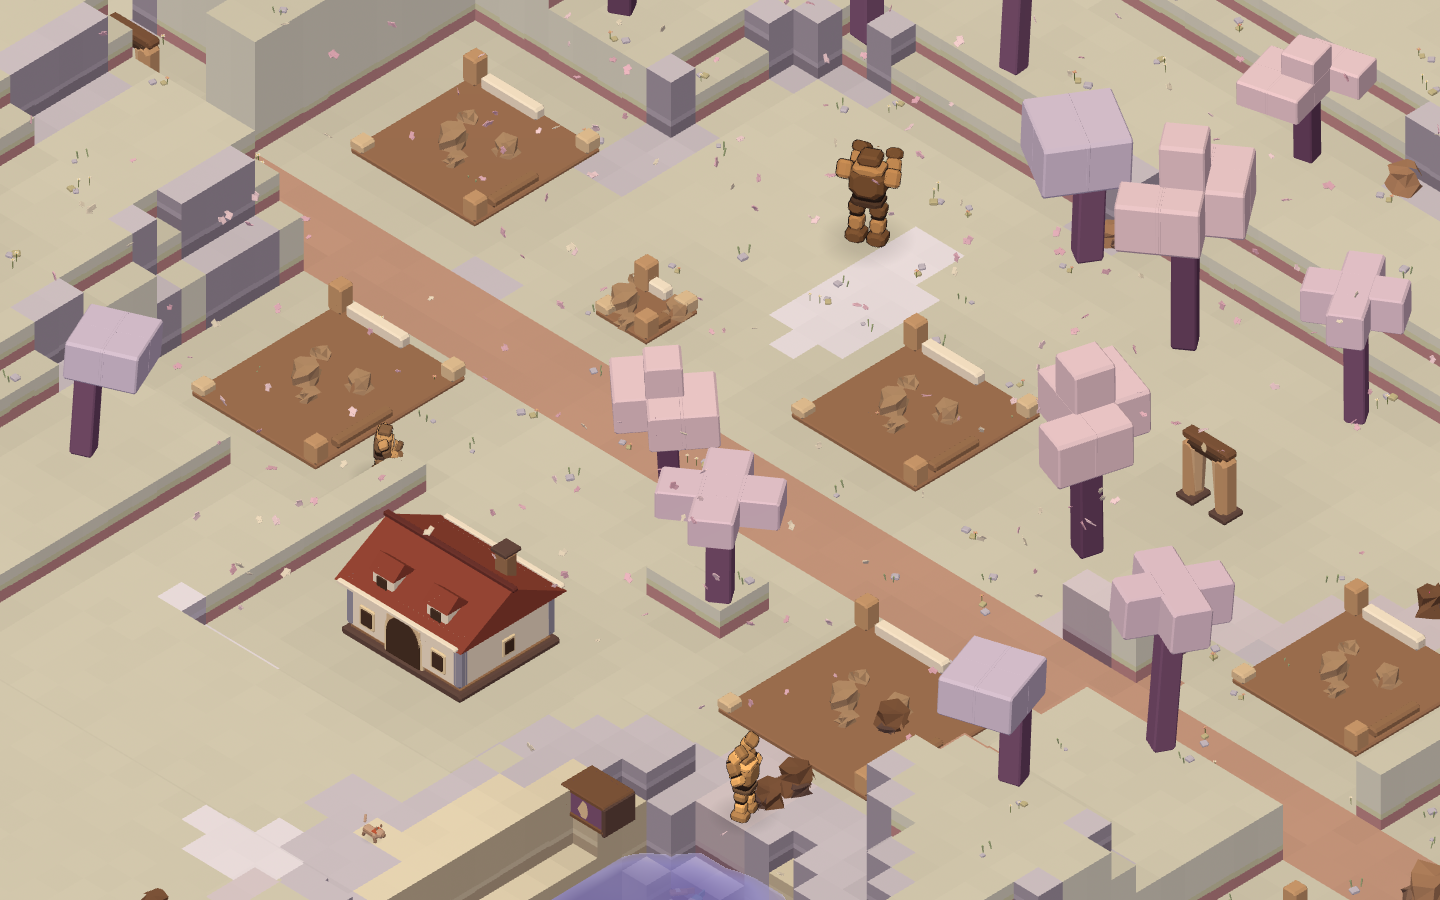
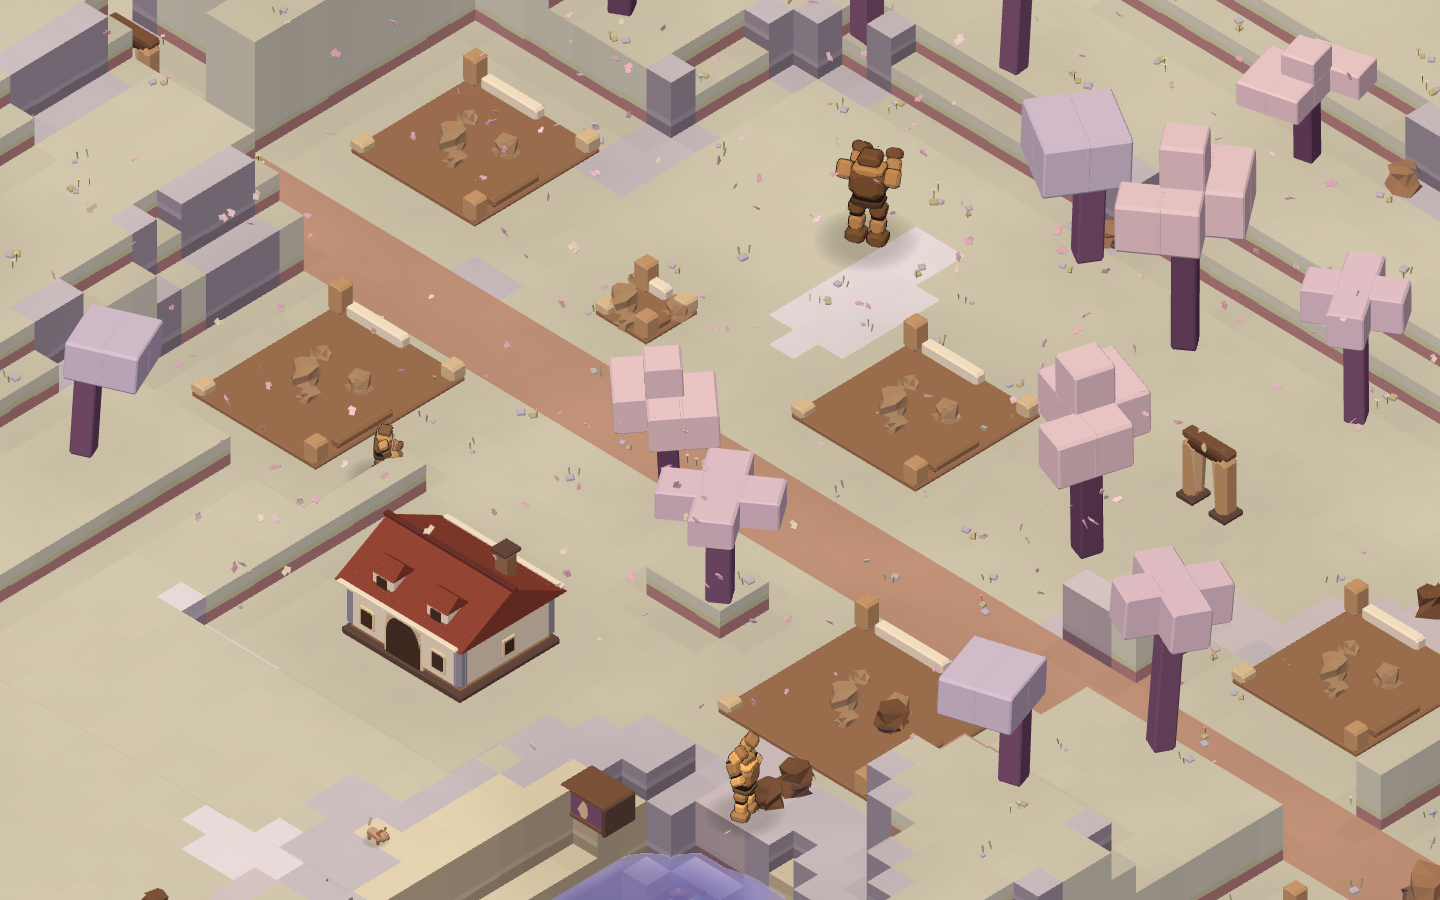
The shadows had the right numbers and drew the wrong picture
Three separate faults, all of them measurable, and every one of them was a case
of a correct value being rendered badly.

## The ground shadow was a mosaic of one-cell squares

`push` writes the same colour to all four vertices of a quad, so every top face
in the valley is flat. The occlusion field is smooth and continuous; what got
drawn was a grid of tiles, because a 2.4% step between neighbours is nothing as
a number and a hard edge when each cell is forty pixels of flat colour.

The field is now sampled at the CORNERS of a cell rather than at its middle. A
corner is shared by four cells, so neighbouring quads agree on it and the
interpolation the GPU already does for free turns the field back into a
gradient. Same six vertices, four colours instead of one — no extra geometry, no
extra draws.

## It never reached the depth it was set to

`SHADE_FLOOR` is 0.87, measured off the footage. The darkest cell in a generated
valley came out at **0.928**: the squash saturates slowly, so the floor was never
approached and every shadow was a little over half the depth it claimed. The
gain is solved now rather than picked — 3.2 puts a dense stand on 0.883 and
leaves a lone tree near 0.90, which is the shape the footage has.

Risers take their cell's shadow too. Without it a wall under a canopy stayed at
full brightness while the ground either side of it darkened, which drew a bright
outline around the edge of every shadow.
[…]

Changed region(s): [[0.25, 0.9022, 0.2812, 0.9333]]

diff --git a/src/world/mesher.js b/src/world/mesher.js
@@ -137,6 +137,26 @@ export function meshChunk(grid, cx, cz) {
   // A quad as two triangles, in the winding its caller already chose.
   const quad = (a, b, c, d, n, colour) => push([a, b, c, a, c, d], n, colour)
 
+  /**
+   * The same quad, but with a colour PER CORNER.
+   *
+   * Every top face was one flat colour, so the ground's soft shadow — which is a
+   * smooth field — was being drawn as a mosaic of one-cell squares. The values
+   * were right and the picture was tiles: a 2.4% step between neighbours is
+   * nothing as a number and a visible edge when each cell is forty pixels of
+   * flat colour.
+   *
+   * Corner values are shared between adjacent cells, so the interpolation the
+   * GPU already does for free turns the field back into a gradient. No extra
+   * vertices, no extra draws — the same six vertices with four colours instead
+   * of one.
+   */
+  const quadC = (a, b, c, d, n, ca, cb, cc, cd) => {
+    for (const p of [a, b, c, a, c, d]) pos.push(p[0], p[1], p[2])
+    for (let i = 0; i < 6; i++) nor.push(n[0], n[1], n[2])
+    for (const col of [ca, cb, cc, ca, cc, cd]) rgb.push(col[0], col[1], col[2])
+  }
+
   const x0 = cx * CHUNK, z0 = cz * CHUNK
 
   for (let z = z0; z < z0 + CHUNK; z++) {
@@ -178,10 +198,32 @@ export function meshChunk(grid, cx, cz) {
        * objects pasted on. See `world/occlusion.js` for where the 0.87 floor
        * comes from.
        */
-      const k = g * furrow * (1 - occ * 0.055) * grid.shade[i]
+      const k = g * furrow * (1 - occ * 0.055)
       const top = linear(bands[0])
-      const topCol = [top[0] * k, top[1] * k, top[2] * k]
-      quad([x, y, z + 1], [x + 1, y, z + 1], [x + 1, y, z], [x, y, z], [0, 1, 0], topCol)
+
+      /**
+       * The shadow is sampled at the CORNERS of the cell, not at its middle.
+       *
+       * A corner is shared by four cells, so neighbouring quads agree on it and
+       * the field comes out continuous across the whole plateau. Sampling the
+       * centre instead is what made it a grid of tiles.
+       */
+      const corner = (ax, az) => {
+        let sum = 0
+        for (let dz = -1; dz <= 0; dz++) {
+          for (let dx = -1; dx <= 0; dx++) {
+            const sx = Math.min(N - 1, Math.max(0, ax + dx))
+            const sz = Math.min(N - 1, Math.max(0, az + dz))
+            sum += grid.shade[sz * N + sx]
+          }
+        }
+        return sum / 4
+      }
+      const tint = (sh) => [top[0] * k * sh, top[1] * k * sh, top[2] * k * sh]
+      quadC(
+        [x, y, z + 1], [x + 1, y, z + 1], [x + 1, y, z], [x, y, z], [0, 1, 0],
+        tint(corner(x, z + 1)), tint(corner(x + 1, z + 1)), tint(corner(x + 1, z)), tint(corner(x, z)),
+      )
 
       // -- cliff faces ------------------------------------------------------
       // Only ever drawn on the DOWNHILL side. Emitting both sides of a seam
@@ -231,7 +273,10 @@ export function meshChunk(grid, cx, cz) {
            * must not: it is what tells you which way the ground is going.
            */
           const facing = dx !== 0 ? FACE_X : FACE_Z
-          const shadeK = g * facing * (band === 3 ? 1 : 1.04)
+          // The riser takes the cell's own shadow too. Without it a wall under a
+          // canopy stayed at full brightness while the ground either side of it
+          // darkened, which drew a bright outline around every shadow.
+          const shadeK = g * facing * (band === 3 ? 1 : 1.04) * grid.shade[i]
           const colour = [c[0] * shadeK, c[1] * shadeK, c[2] * shadeK]
           emit(dx, dz, next, cursor, colour)
         }

diff --git a/src/world/occlusion.js b/src/world/occlusion.js
@@ -19,9 +19,15 @@ import { Grid, N, P } from './grid.js'
  *
  * A blob quad per tree is hundreds of transparent draws laid over the terrain,
  * sorted every frame, z-fighting on terrace lips. The world is an integer grid
- * and the mesher already writes a colour per top face — so the shadow is just a
- * per-cell multiplier folded into that colour. No draw calls, no sorting, no
- * z-fighting, and it terraces correctly for free because it IS the terrain.
+ * and the mesher already writes vertex colours — so the shadow is a multiplier
+ * folded into those. No draw calls, no sorting, no z-fighting, and it terraces
+ * correctly for free because it IS the terrain.
+ *
+ * The mesher samples this field at the CORNERS of each cell rather than at its
+ * centre, and neighbouring quads share those corners, so what the GPU draws is a
+ * continuous gradient. Sampling per cell — which is how this shipped — gave the
+ * right values and the wrong picture: a mosaic of one-cell squares, because a
+ * flat quad forty pixels across shows a 2% step as an edge.
  *
  * Things that move cannot use this and get a real quad instead; there are five
  * of them, not five hundred.
@@ -91,7 +97,16 @@ export function computeShade(grid, buildings = []) {
     // `acc` is unbounded — a tree in a stand gets deposits from its neighbours
     // too — so it is squashed rather than clamped, which keeps a dense wood
     // darker than a lone tree without ever going past the measured floor.
-    const t = 1 - Math.exp(-blurred[i] * 1.1)
+    /**
+     * The gain is solved, not chosen.
+     *
+     * At 1.1 the deepest cell in a generated valley came out at 0.928 — the
+     * squash saturates slowly, so the 0.87 floor measured off the footage was
+     * never actually reached and every shadow was a little over half the depth
+     * it was supposed to be. 3.2 puts a dense stand on the floor and leaves a
+     * lone tree around 0.90, which is the shape the footage has.
+     */
+    const t = 1 - Math.exp(-blurred[i] * 3.2)
     shade[i] = 1 - (1 - SHADE_FLOOR) * t
   }
   return shade

diff --git a/src/core/kit.js b/src/core/kit.js
@@ -304,10 +304,19 @@ function shadowTexture() {
   c.width = c.height = size
   const ctx = c.getContext('2d')
   const g = ctx.createRadialGradient(size / 2, size / 2, 0, size / 2, size / 2, size / 2)
-  // Solid to nothing over the radius, with the falloff weighted outward so the
-  // core reads as contact and the edge never shows a rim.
+  /**
+   * A CORE, then a falloff — not a spike.
+   *
+   * The first version ran 1.0 to 0.72 by 45% of the radius and to nothing at the
+   * edge, so the stated 13% darkening was reached at a single point and the
+   * average over the whole patch was a few per cent: measurably present,
+   * visually absent, which is what it looked like in the game. The footage has
+   * about a tenth off the ground across an area the size of the body, so most of
+   * the patch has to be at full strength and only the rim feathers.
+   */
   g.addColorStop(0, 'rgba(0,0,0,1)')
-  g.addColorStop(0.45, 'rgba(0,0,0,0.72)')
+  g.addColorStop(0.55, 'rgba(0,0,0,0.96)')
+  g.addColorStop(0.78, 'rgba(0,0,0,0.55)')
   g.addColorStop(1, 'rgba(0,0,0,0)')
   ctx.fillStyle = g
   ctx.fillRect(0, 0, size, size)
@@ -316,7 +325,7 @@ function shadowTexture() {
   return SHADOW_TEX
 }
 
-export function contactShadow(radius = 0.5, strength = 0.13) {
+export function contactShadow(radius = 0.5, strength = 0.17) {
   // No canvas in the headless tools, and a rig has to build without a DOM.
   if (typeof document === 'undefined') return null
   const mesh = new THREE.Mesh(

diff --git a/src/actors/player.js b/src/actors/player.js
@@ -139,7 +139,7 @@ export function buildPlayer(lookKey = 'apprentice') {
   const parts = { root, materials: MAT }
   // The patch of shadow the body stands in. See `contactShadow` in core/kit —
   // the root already sits at ground level, so it needs no per-frame update.
-  const shadow = contactShadow(0.42)
+  const shadow = contactShadow(0.52)
   if (shadow) root.add(shadow)
 
   /** One box. The only primitive this rig uses. */

diff --git a/src/actors/dog.js b/src/actors/dog.js
@@ -47,7 +47,7 @@ export function buildSixteen() {
   const root = new THREE.Group()
   // The patch of shadow the body stands in. See `contactShadow` in core/kit —
   // the root already sits at ground level, so it needs no per-frame update.
-  const shadow = contactShadow(0.34)
+  const shadow = contactShadow(0.42)
   if (shadow) root.add(shadow)
   root.name = 'sixteen'
   const parts = { root }

diff --git a/src/actors/rocky.js b/src/actors/rocky.js
@@ -395,7 +395,7 @@ export function buildRocky({ cut = 'rocky', chest = 'mark', height = 1.9, outlin
 
   // The patch of shadow the body stands in. See `contactShadow` in core/kit.
 
-  const shadow = contactShadow(0.55)
+  const shadow = contactShadow(0.62)
 
   if (shadow) root.add(shadow)
 

diff --git a/src/actors/pebble.js b/src/actors/pebble.js
@@ -163,7 +163,7 @@ export function buildPebble({ trait = 'waterer', size = 0.5, outline = true, awa
 
   // The patch of shadow the body stands in. See `contactShadow` in core/kit.
 
-  const shadow = contactShadow(0.3)
+  const shadow = contactShadow(0.36)
 
   if (shadow) root.add(shadow)
 
